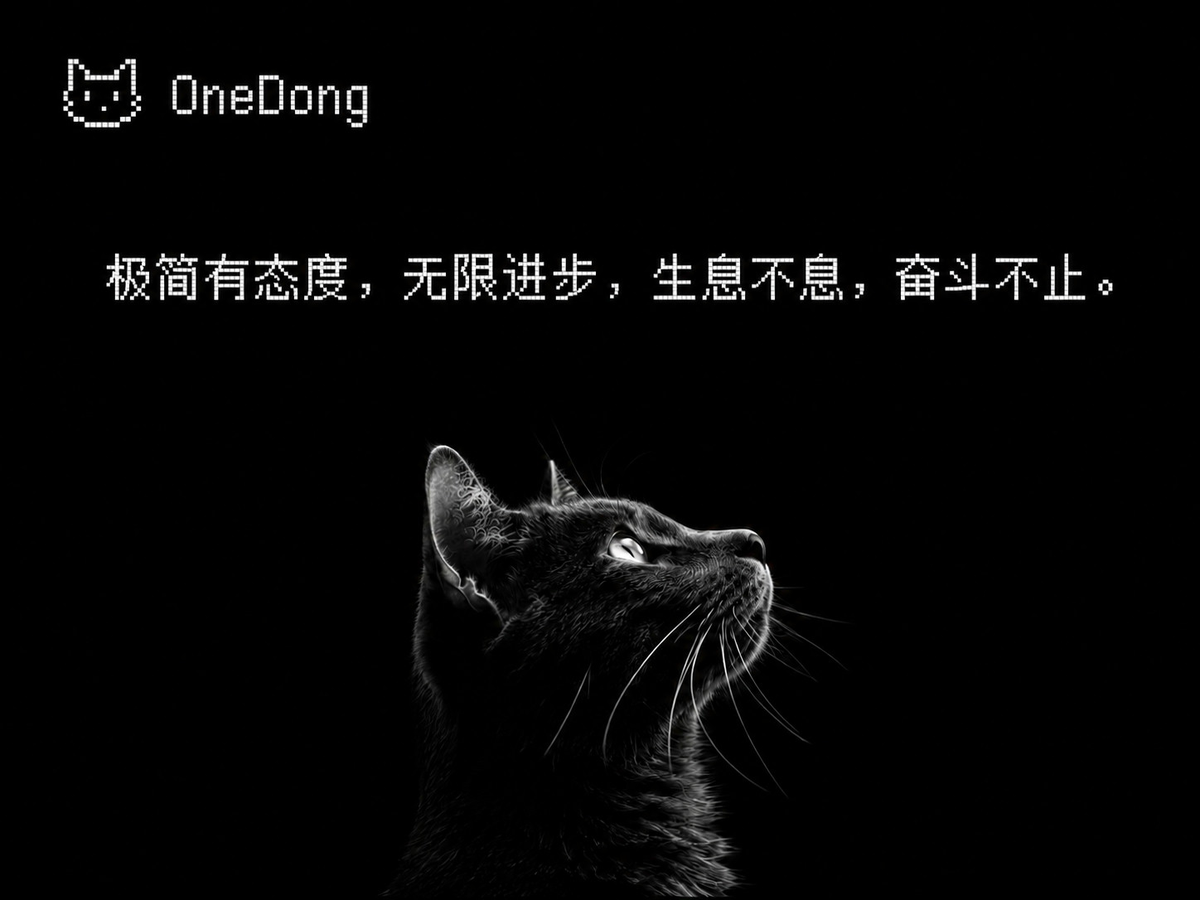
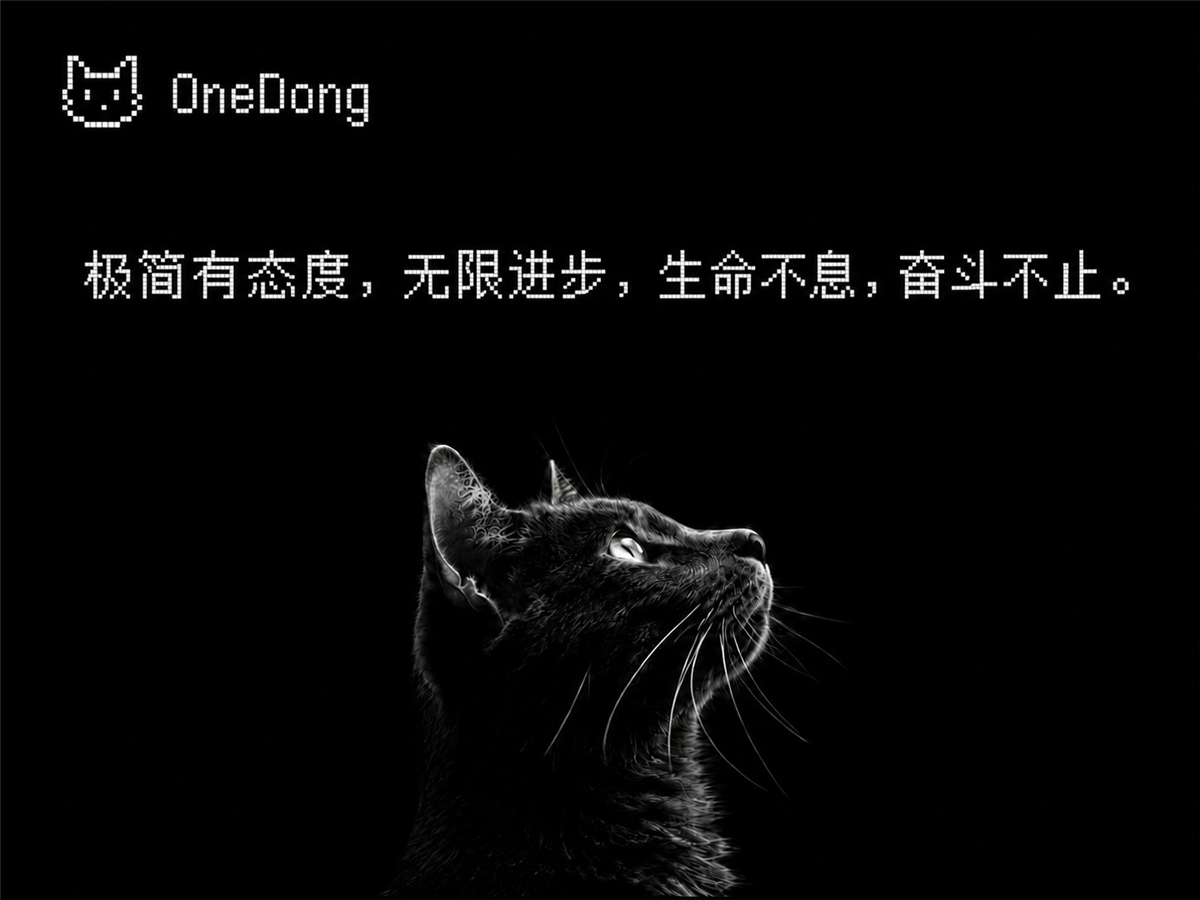
feat(onedong): v2.3.1 换主题封面 + 内置默认缩略图
- screenshot.png 换新封面(1448x1086 等比缩放至 1200x900)
- 新增 assets/img/default-thumb.png,无特色图文章卡改用默认缩略图(替代纯文字卡)
- content.php 拆分 show_thumb/has_thumb,封面关闭时才回退纯文字卡
- 版本 2.3.0->2.3.1

diff --git a/onedong/style.css b/onedong/style.css
@@ -4,7 +4,7 @@ Theme URI: https://github.com/webzol/dongS
 Author: TD
 Author URI: https://github.com/webzol
 Description: OneDong 是一款高度还原 suxing.me（Alright 主题）风格的 WordPress 经典博客主题。三栏布局（左作者卡 + 中文章流 + 右侧栏）、上图下文 list-item 卡片、suxing 灰阶 + blue 主色、h2 色条、正文红色 inset 下划线、药丸标签、毛玻璃顶栏，并内置浅色/暗色双模式（自动跟随系统 + 手动切换 + 记忆）。
-Version: 2.3.0
+Version: 2.3.1
 Requires at least: 6.4
 Tested up to: 6.6
 Requires PHP: 7.4

diff --git a/onedong/template-parts/content.php b/onedong/template-parts/content.php
@@ -9,13 +9,19 @@
  * @package OneDong
  */
 
-$has_thumb = has_post_thumbnail() && get_theme_mod( 'onedong_show_thumbnail', 1 );
-$cats      = get_the_category();
+$show_thumb = (bool) get_theme_mod( 'onedong_show_thumbnail', 1 );
+$has_thumb  = has_post_thumbnail();
+$cats       = get_the_category();
+// 有特色图用特色图;无特色图但开启封面 → 用内置默认缩略图;关闭封面 → 纯文字卡
 ?>
 <article id="post-<?php the_ID(); ?>" <?php post_class( 'post-card' ); ?> data-reveal>
-	<?php if ( $has_thumb ) : ?>
+	<?php if ( $show_thumb ) : ?>
 		<a class="post-card__thumb" href="<?php echo esc_url( get_permalink() ); ?>" tabindex="-1" aria-label="<?php echo esc_attr( get_the_title() ); ?>">
-			<?php the_post_thumbnail( 'onedong-card', array( 'loading' => 'lazy', 'class' => 'post-card__img' ) ); ?>
+			<?php if ( $has_thumb ) : ?>
+				<?php the_post_thumbnail( 'onedong-card', array( 'loading' => 'lazy', 'class' => 'post-card__img' ) ); ?>
+			<?php else : ?>
+				<img class="post-card__img" src="<?php echo esc_url( get_theme_file_uri( 'assets/img/default-thumb.png' ) ); ?>" alt="<?php the_title_attribute(); ?>" loading="lazy" width="600" height="450">
+			<?php endif; ?>
 			<?php if ( ! empty( $cats ) ) : ?>
 				<span class="post-card__cat-badge"><?php echo esc_html( $cats[0]->name ); ?></span>
 			<?php endif; ?>
@@ -34,7 +40,7 @@ $cats      = get_the_category();
 					<?php echo esc_html( get_the_date() ); ?>
 				</time>
 
-				<?php if ( ! $has_thumb && ! empty( $cats ) ) : ?>
+				<?php if ( ! $show_thumb && ! empty( $cats ) ) : ?>
 					<span class="post-card__cats">
 						<?php onedong_icon( 'hash' ); ?>
 						<?php

diff --git a/onedong/functions.php b/onedong/functions.php
@@ -10,7 +10,7 @@ if ( ! defined( 'ABSPATH' ) ) {
 	exit; // 禁止直接访问
 }
 
-define( 'ONEDONG_VERSION', '2.3.0' );
+define( 'ONEDONG_VERSION', '2.3.1' );
 define( 'ONEDONG_DIR', get_template_directory() );
 define( 'ONEDONG_URI', get_template_directory_uri() );
 

diff --git a/onedong/DEV_NOTES.md b/onedong/DEV_NOTES.md
@@ -166,3 +166,16 @@
 - **全关侧栏不输出 aside**:三栏 grid 仍保留列宽(留白);默认 author/cats/tags 开,不会出现空栏。
 - 开发机无 php/WP,`php -l` 与后台实测未跑,待上线「外观 → 自定义」逐开关复验 + 前端实测。
 - **theme_mod key 一致性**:每个开关 key 在「注册(default+sanitize)→ 模板 get_theme_mod 读取」两处一致(grep 自检过)。
+
+## v2.3.1(2026-06-27)· 换主题封面 + 内置默认缩略图
+
+### 改动
+- **主题封面** `screenshot.png`:换用用户提供的新封面(原图 1448×1086 jpg),PowerShell + System.Drawing 等比缩放到 1200×900 png(本机无 Pillow,走 .NET)。原图与目标同为 4:3,纯缩放无裁剪。
+- **内置默认缩略图** `assets/img/default-thumb.png`(600×450 png):`template-parts/content.php` 无特色图时**不再降级为纯文字卡**,改用默认缩略图当封面(`get_theme_file_uri('assets/img/default-thumb.png')`,`object-fit:cover` 适配 16:9 封面区),分类贴片照常贴封面。仅当 Customizer「显示封面图」关闭(`onedong_show_thumbnail=0`)时才回退纯文字卡 + meta 行分类。
+- 变量重构:`$has_thumb`(原含开关)拆为 `$show_thumb`(开关)+ `$has_thumb`(纯 `has_post_thumbnail()`);meta 行分类回退条件 `! $has_thumb` → `! $show_thumb`。
+- 版本 2.3.0→2.3.1。
+
+### 坑 / 注意
+- 默认缩略图当前**仅列表卡**(content.php);`single.php` 页头、侧栏最新/热门文章缩略图无图时仍各自回退(不显示 / 占位图标),未统一铺开,如需一致可后续扩展。
+- `screenshot.png` / `default-thumb.png` 为二进制,git 正常追踪;微信临时源图(`xwechat_files\...\temp`)可能被占用,已先 PowerShell 读尺寸再 FromFile 处理。
+- `onedong.zip` 仍为外部不明改动,未纳入本次提交。